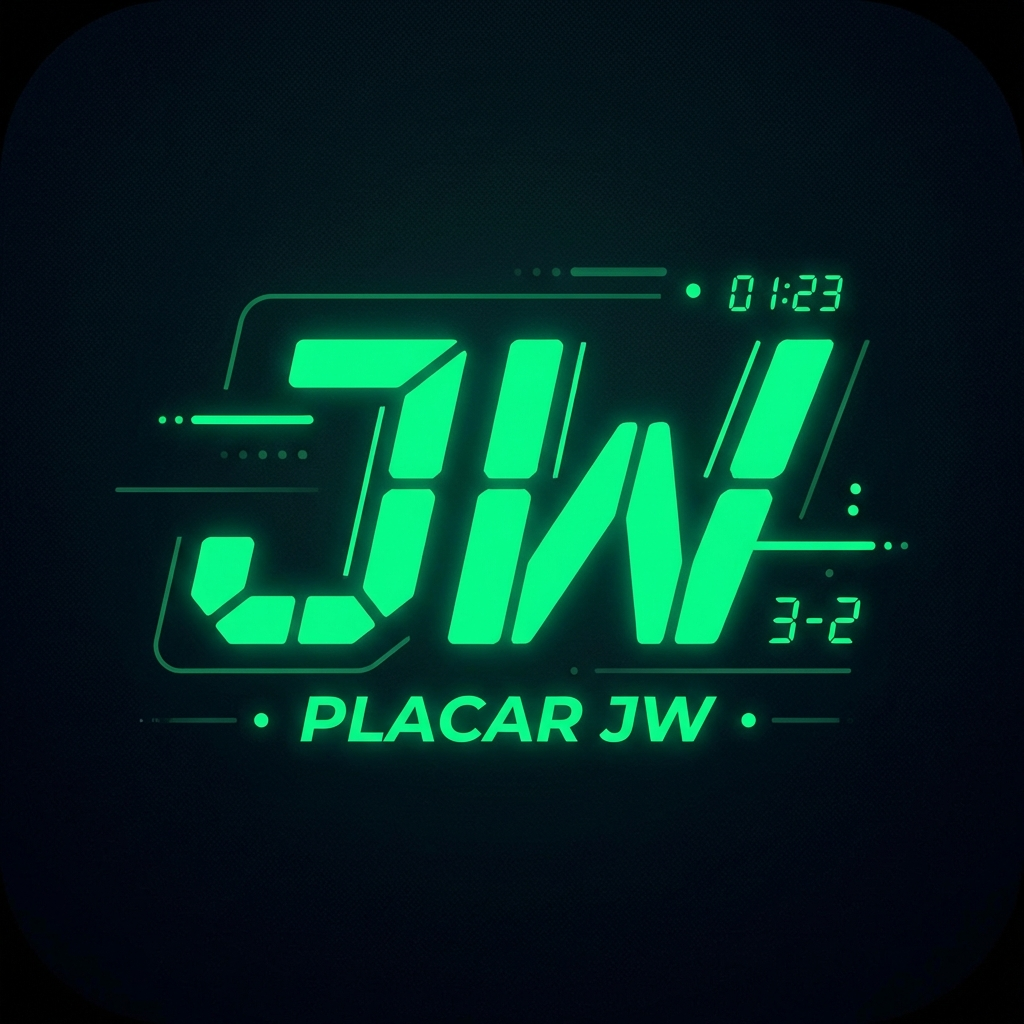
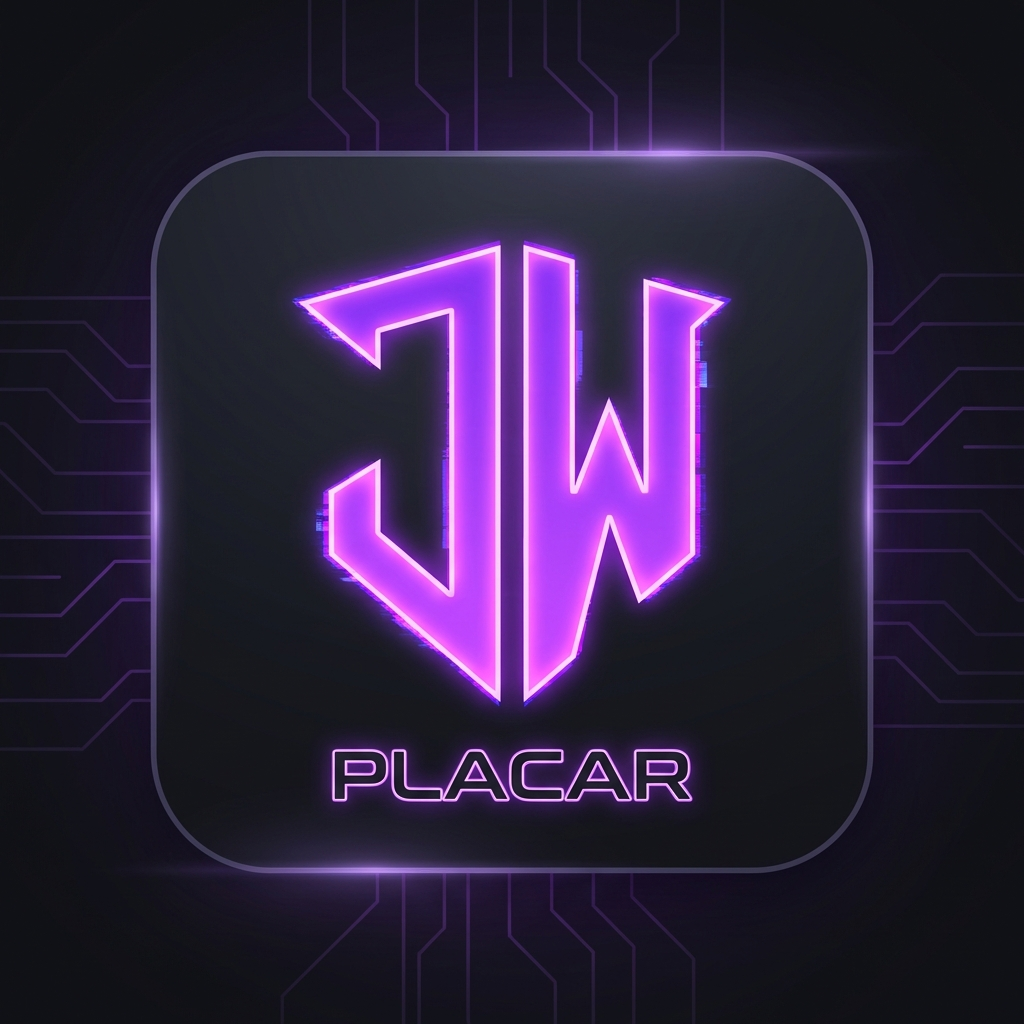
novo icone

diff --git a/index.html b/index.html
@@ -7,6 +7,7 @@
     <title>Placar JW</title>
     <link rel="stylesheet" href="style.css">
     <link rel="manifest" href="manifest.json">
+    <link rel="icon" type="image/png" href="icon-192.png">
     <meta name="theme-color" content="#121212">
     <!-- Google Fots -->
     <link href="https://fonts.googleapis.com/css2?family=Inter:wght@400;600;700&display=swap" rel="stylesheet">

diff --git a/sw.js b/sw.js
@@ -1,4 +1,4 @@
-const CACHE_NAME = 'placar-app-v13';
+const CACHE_NAME = 'placar-app-v16';
 const ASSETS = [
   './',
   './index.html',
